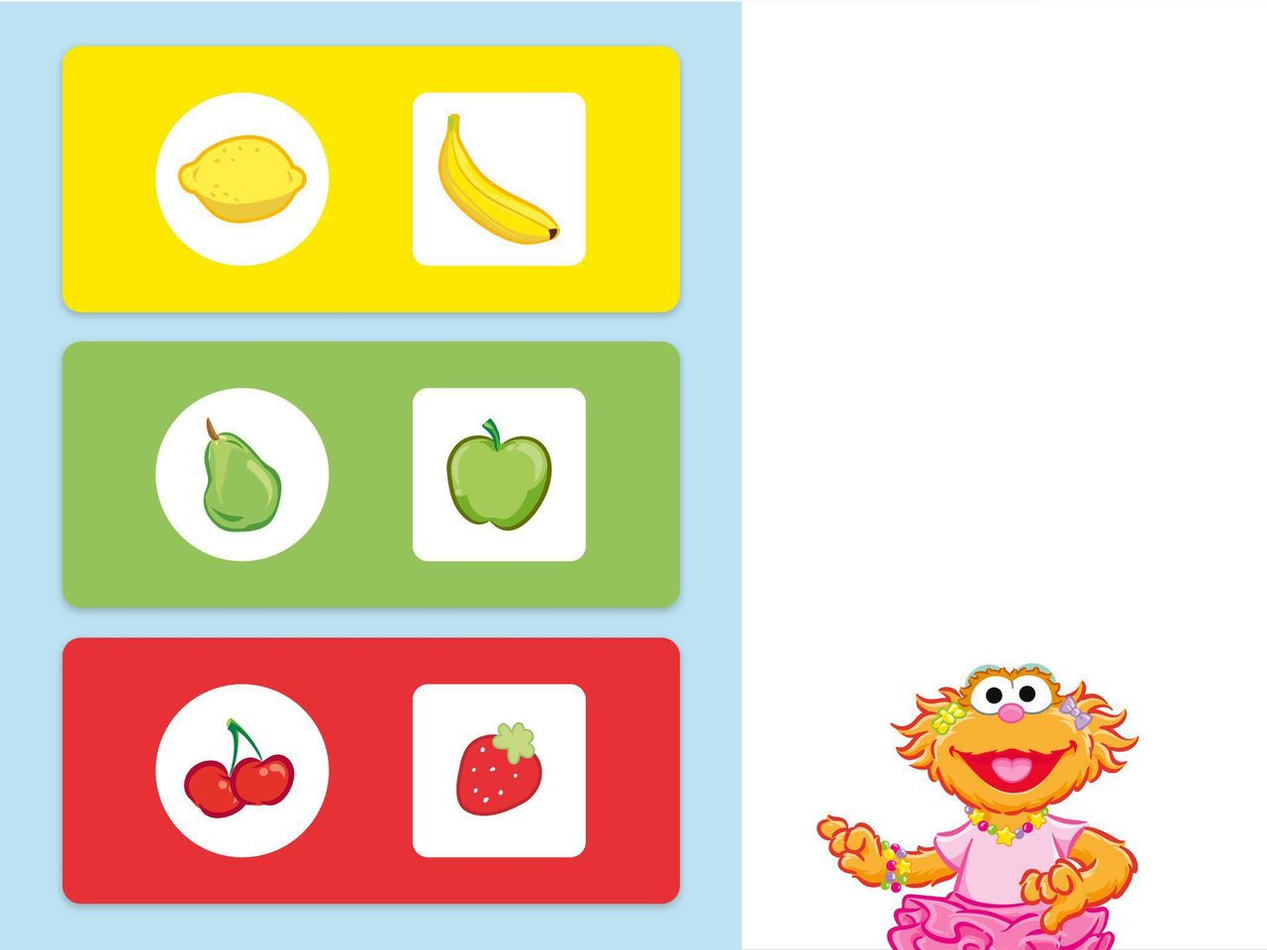
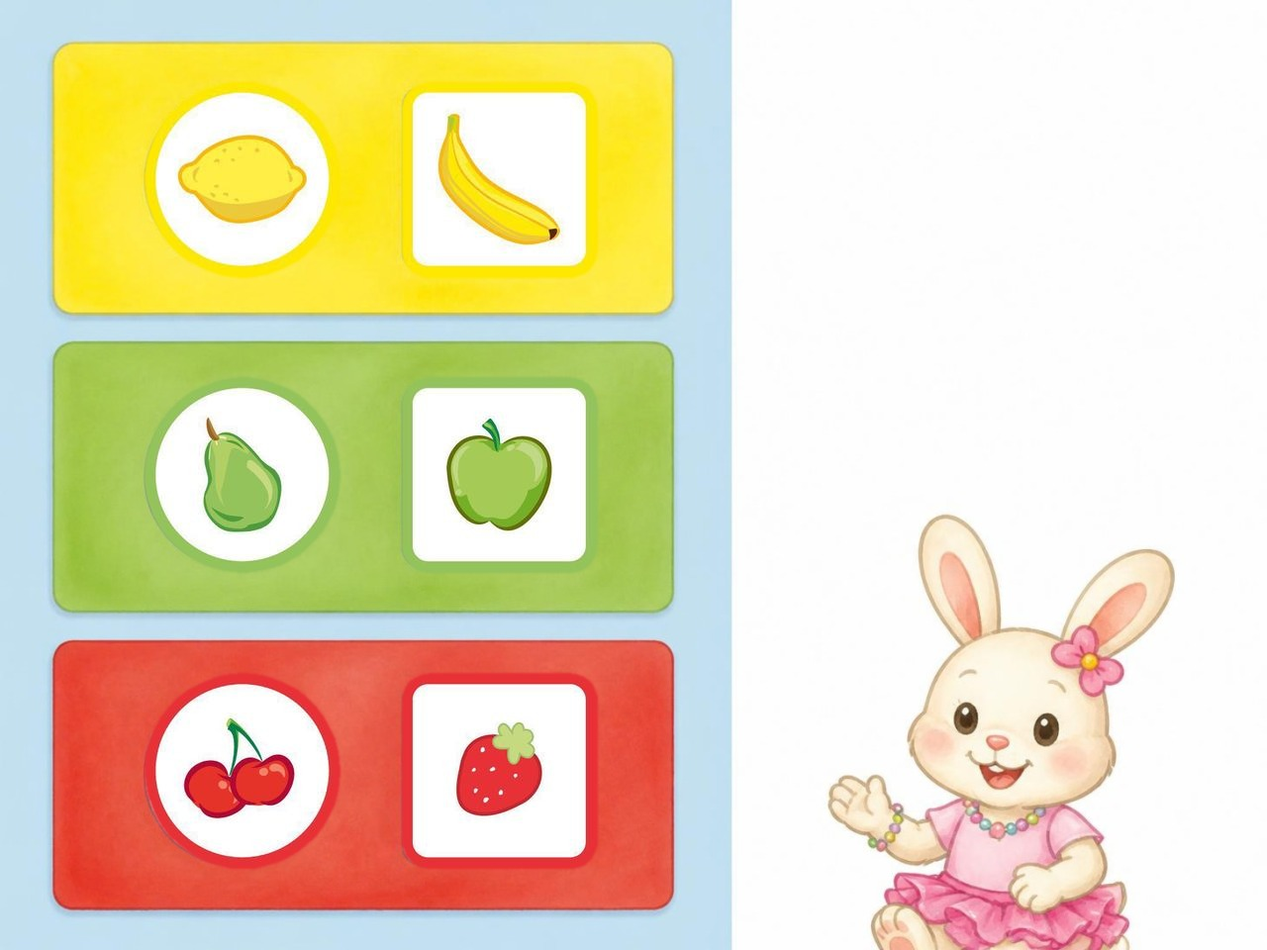
Sesame Street characters replaced in 'מיון מזון' (6 slides)

diff --git a/games/g4l53/index.html b/games/g4l53/index.html
@@ -153,7 +153,7 @@ body.framed #app .top .brand{display:none}
 </script>
 <script>
 /*CFGLINE*/
-const CFG = {"slides": [{"i": 0, "t": "R", "img": "img/s0.jpg?b=4", "acts": [{"intro": "aud/photo1__activity0__activity0.mp3", "advance": true, "idle": null, "shapes": []}], "layers": [{"t": "bg", "src": "lay/s0_0.jpg?b=4", "w": 2048, "h": 1536, "m": [1, 0, 0, 1, 0, 0], "show": 0, "tog": false}]}, {"i": 1, "t": "P", "img": "img/s1.jpg?b=4", "acts": [{"intro": "aud/photo2__activity0__activity0.mp3", "advance": false, "idle": null, "shapes": [{"d": "M 352.6 534.8 L 350.0 530.2 L 346.6 525.4 L 343.2 521.6 L 338.8 517.9 L 334.6 514.9 L 329.4 514.5 L 325.6 517.9 L 321.9 522.0 L 318.1 525.8 L 315.9 530.6 L 319.6 535.9 L 314.4 538.5 L 309.5 541.1 L 305.0 544.5 L 301.6 548.6 L 298.2 553.9 L 295.2 558.8 L 292.6 564.0 L 291.1 569.2 L 290.4 574.9 L 290.0 580.1 L 290.0 586.1 L 291.1 591.8 L 291.9 597.0 L 293.8 602.2 L 296.4 607.1 L 299.0 612.4 L 301.6 616.9 L 305.0 621.4 L 308.4 626.2 L 311.4 630.4 L 315.9 634.1 L 321.1 637.5 L 326.0 640.5 L 331.6 642.8 L 337.6 643.1 L 343.2 642.4 L 348.5 640.9 L 353.8 640.1 L 358.6 642.0 L 363.5 643.5 L 369.1 644.2 L 374.4 644.2 L 379.2 642.8 L 383.4 639.8 L 387.9 636.8 L 392.0 632.6 L 395.8 628.5 L 398.8 624.4 L 402.1 620.2 L 405.5 615.8 L 407.4 610.9 L 409.6 605.2 L 411.5 600.0 L 412.6 595.1 L 413.4 589.1 L 414.1 583.9 L 414.9 578.2 L 414.1 572.2 L 413.0 565.9 L 411.9 560.6 L 410.0 555.8 L 408.5 550.9 L 406.2 546.0 L 403.2 541.5 L 399.5 537.8 L 395.8 533.6 L 391.2 531.0 L 386.4 529.5 L 381.1 528.0 L 375.9 527.6 L 369.9 528.8 L 364.6 530.2 L 359.8 532.1 L 355.1 533.9 L 350.4 535.6 Z", "bb": [290, 514, 415, 644], "r1": "aud/photo2__activity0__shape1__record1_1.mp3", "r2": null, "ans": [], "link": null, "tx": 386.8, "ty": -460.7, "idle": null}, {"d": "M 905.0 530.6 L 899.4 529.9 L 894.1 530.2 L 889.2 532.5 L 884.8 535.1 L 880.2 537.8 L 876.1 541.5 L 873.1 546.0 L 870.9 550.5 L 867.9 555.0 L 866.4 559.9 L 865.2 565.1 L 864.1 571.5 L 864.1 577.1 L 864.5 582.4 L 865.2 587.6 L 866.0 592.9 L 867.5 598.1 L 869.4 603.8 L 872.0 608.2 L 874.2 613.5 L 877.2 618.4 L 880.2 622.9 L 883.2 627.4 L 886.6 631.1 L 890.4 634.5 L 894.9 637.5 L 900.5 639.8 L 905.8 641.2 L 910.6 640.1 L 915.9 639.0 L 921.5 640.5 L 926.4 644.2 L 932.0 645.4 L 937.2 645.4 L 942.5 645.4 L 947.4 643.5 L 951.9 641.2 L 956.8 638.2 L 960.9 635.2 L 965.0 631.5 L 969.1 628.1 L 972.1 624.0 L 975.1 619.5 L 978.5 615.4 L 980.8 610.9 L 983.8 606.8 L 986.0 602.2 L 987.5 597.4 L 989.4 591.8 L 990.9 586.1 L 991.6 580.1 L 991.2 574.5 L 990.5 568.5 L 989.8 563.2 L 987.9 558.0 L 985.2 553.1 L 981.9 548.2 L 978.5 544.1 L 974.4 539.6 L 970.6 536.2 L 966.1 533.2 L 960.9 531.0 L 955.2 530.6 L 949.2 530.6 L 944.0 531.4 L 939.5 533.6 L 934.6 536.2 L 933.9 530.6 L 932.8 525.8 L 930.5 520.5 L 928.2 515.6 L 923.8 512.6 L 918.9 511.5 L 914.0 513.0 L 909.1 514.9 L 904.2 517.5 L 900.5 521.2 L 901.6 526.5 L 904.8 530.4 L 908.0 534.2 Z", "bb": [864, 512, 992, 645], "r1": "aud/photo2__activity0__shape2__record1_2.mp3", "r2": null, "ans": [], "link": null, "tx": -641, "ty": -455.4, "idle": null}]}]}, {"i": 2, "t": "P", "img": "img/s2.jpg?b=4", "acts": [{"intro": "aud/photo3__activity0__activity0.mp3", "advance": false, "idle": null, "shapes": [{"d": "M 908.2 461.8 L 908.2 504.6 C 908.2 508.5 905.1 511.6 901.2 511.6 L 810.5 511.6 C 806.7 511.6 803.5 508.5 803.5 504.6 L 803.5 419.0 C 803.5 415.1 806.7 412.0 810.5 412.0 L 901.2 412.0 C 905.1 412.0 908.2 415.1 908.2 419.0 Z", "bb": [804, 412, 908, 512], "r1": "aud/photo3__activity0__shape1__record1_1.mp3", "r2": null, "ans": [], "link": null, "tx": -430.8, "ty": 211.1, "idle": null}, {"d": "M 384.6 460.5 C 384.6 489.5 360.1 513.0 329.9 513.0 C 299.7 513.0 275.3 489.5 275.3 460.5 C 275.3 431.4 299.7 407.9 329.9 407.9 C 360.1 407.9 384.6 431.4 384.6 460.5 Z", "bb": [275, 408, 385, 513], "r1": "aud/photo3__activity0__shape2__record1_2.mp3", "r2": null, "ans": [], "link": null, "tx": 271.5, "ty": 216.6, "idle": null}]}]}, {"i": 3, "t": "P", "img": "img/s3.jpg?b=4", "acts": [{"intro": "aud/photo4__activity0__activity0.mp3", "advance": false, "idle": null, "shapes": [{"d": "M 889.2 277.9 L 884.0 277.9 L 878.4 278.2 L 873.1 280.1 L 867.9 283.5 L 863.8 286.5 L 858.9 287.6 L 854.0 290.6 L 850.2 294.0 L 846.9 297.8 L 843.1 301.9 L 839.4 307.1 L 836.4 312.8 L 834.9 318.4 L 833.0 323.2 L 831.9 329.2 L 830.4 334.5 L 830.4 339.8 L 830.4 345.0 L 831.5 350.2 L 832.2 355.9 L 834.9 361.9 L 837.1 367.5 L 840.1 372.0 L 844.6 376.5 L 848.8 381.0 L 853.6 383.2 L 859.2 384.0 L 864.9 384.4 L 868.6 387.8 L 873.1 390.4 L 878.8 391.9 L 884.8 392.6 L 890.4 391.9 L 895.6 390.8 L 900.5 392.6 L 906.5 393.0 L 912.1 392.6 L 917.4 391.5 L 921.9 388.5 L 927.5 388.1 L 933.1 387.0 L 938.4 386.2 L 944.0 384.0 L 948.5 381.4 L 952.6 378.0 L 956.8 373.5 L 960.9 369.0 L 964.2 364.5 L 966.5 358.9 L 968.0 354.0 L 968.4 348.4 L 969.5 343.1 L 970.2 337.1 L 970.6 331.5 L 970.6 325.5 L 969.5 320.6 L 967.2 315.4 L 965.0 310.9 L 962.4 306.4 L 959.4 301.5 L 955.2 297.4 L 951.5 293.6 L 946.2 291.0 L 941.4 289.1 L 936.9 285.8 L 932.4 283.1 L 927.5 281.6 L 922.6 280.1 L 923.8 273.8 L 925.6 268.1 L 924.1 262.9 L 920.0 259.9 L 914.0 258.4 L 907.6 258.4 L 902.0 260.2 L 896.8 263.6 L 891.9 267.8 L 887.8 273.4 L 884.4 277.5 L 889.4 277.9 Z", "bb": [830, 258, 971, 393], "r1": "aud/photo4__activity0__shape1__record1_1.mp3", "r2": null, "ans": [], "link": null, "tx": -527.1, "ty": 338.1, "idle": null}, {"d": "M 483.5 189.0 L 483.1 183.8 L 484.6 177.8 L 487.2 173.2 L 491.0 169.1 L 494.0 164.6 L 494.8 159.4 L 492.5 153.8 L 488.0 150.4 L 482.4 147.4 L 476.4 147.0 L 471.1 147.0 L 465.1 148.1 L 460.2 149.6 L 455.8 152.6 L 452.0 156.0 L 447.5 160.5 L 444.5 165.4 L 441.1 169.9 L 438.5 174.4 L 435.5 178.5 L 431.8 182.2 L 426.5 181.1 L 421.2 181.9 L 416.0 182.2 L 410.4 183.4 L 405.5 185.2 L 401.0 188.6 L 396.5 192.4 L 392.8 196.1 L 387.1 196.9 L 381.5 197.2 L 376.6 198.4 L 372.1 200.6 L 367.2 204.0 L 363.1 208.1 L 359.0 211.9 L 355.6 216.0 L 351.5 220.5 L 347.8 225.4 L 344.8 229.9 L 342.5 234.4 L 339.5 239.6 L 336.9 244.9 L 334.6 249.4 L 332.4 254.2 L 331.2 259.1 L 330.1 265.5 L 329.0 270.4 L 328.6 276.8 L 328.6 282.8 L 328.6 288.0 L 328.6 293.6 L 329.4 298.9 L 330.1 304.5 L 330.9 309.8 L 332.4 315.8 L 334.2 320.6 L 336.5 325.9 L 338.8 330.8 L 341.0 335.6 L 343.6 340.1 L 346.6 345.0 L 350.4 350.2 L 353.8 354.8 L 359.0 358.1 L 364.2 360.4 L 369.5 363.4 L 374.4 365.2 L 379.6 367.1 L 384.5 368.6 L 389.0 371.2 L 393.5 374.6 L 397.6 377.6 L 402.1 381.4 L 406.2 384.4 L 411.1 385.9 L 416.4 386.2 L 421.6 386.6 L 426.9 387.0 L 433.2 386.6 L 438.9 385.1 L 444.9 385.9 L 451.2 388.1 L 456.1 389.6 L 461.4 390.4 L 467.4 390.8 L 473.0 390.4 L 478.2 388.5 L 482.8 385.9 L 487.2 382.5 L 492.1 380.6 L 497.4 380.6 L 503.0 380.6 L 508.2 379.5 L 513.5 377.6 L 518.8 376.5 L 524.0 375.8 L 530.8 374.6 L 536.4 373.1 L 541.2 371.2 L 545.8 368.2 L 549.9 364.9 L 553.6 361.1 L 557.0 355.9 L 560.0 351.0 L 563.0 346.9 L 565.6 341.6 L 568.2 336.4 L 570.5 331.5 L 572.8 327.0 L 574.6 321.8 L 576.5 316.5 L 578.4 310.1 L 579.9 304.9 L 580.6 299.6 L 581.8 293.6 L 582.5 287.6 L 583.2 282.0 L 583.2 275.6 L 583.2 270.0 L 581.8 265.1 L 580.6 259.9 L 579.1 253.9 L 578.0 248.6 L 576.5 243.8 L 573.9 238.9 L 570.1 234.4 L 566.8 229.1 L 562.6 225.0 L 558.9 221.6 L 554.8 217.9 L 550.2 215.2 L 545.8 213.0 L 541.6 209.6 L 537.5 206.6 L 533.0 204.4 L 528.1 203.2 L 522.9 203.2 L 518.0 202.1 L 513.5 198.8 L 509.0 196.5 L 504.5 193.9 L 498.9 191.6 L 494.0 190.5 L 488.8 190.1 L 483.9 189.1 L 479.0 188.0 Z", "bb": [329, 147, 583, 391], "r1": "aud/photo4__activity0__shape2__record1_2.mp3", "r2": null, "ans": [], "link": null, "tx": 155.9, "ty": 352, "idle": null}]}]}, {"i": 4, "t": "P", "img": "img/s4.jpg?b=4", "acts": [{"intro": "aud/photo5__activity0__activity0.mp3", "advance": false, "idle": null, "shapes": [{"d": "M 316.6 356.2 L 312.9 352.5 L 310.2 348.0 L 306.9 343.9 L 302.8 338.6 L 298.6 333.4 L 294.5 327.4 L 290.4 322.9 L 287.0 318.8 L 283.2 314.6 L 279.5 310.5 L 275.4 307.1 L 270.1 303.0 L 265.6 299.2 L 261.1 295.5 L 257.0 292.1 L 254.8 287.2 L 251.4 283.1 L 246.5 280.9 L 240.5 280.5 L 234.1 280.9 L 228.1 278.2 L 222.9 276.8 L 216.1 275.6 L 209.4 275.6 L 204.5 277.9 L 201.1 281.6 L 197.8 285.4 L 196.6 290.2 L 198.1 295.9 L 202.6 300.4 L 202.6 306.0 L 201.5 312.0 L 201.9 317.6 L 205.6 322.5 L 210.1 326.2 L 212.8 331.1 L 215.4 337.1 L 218.4 342.8 L 221.4 346.9 L 224.0 351.8 L 228.1 357.0 L 231.5 362.2 L 234.5 367.5 L 237.1 373.1 L 239.4 379.9 L 241.6 384.4 L 243.9 388.9 L 246.1 393.4 L 248.4 399.4 L 250.6 404.6 L 253.2 409.5 L 255.5 415.9 L 257.8 420.4 L 260.0 425.6 L 262.6 430.9 L 265.6 435.4 L 269.4 439.9 L 274.2 444.0 L 279.5 447.4 L 283.6 450.4 L 288.1 452.6 L 294.1 454.1 L 300.9 454.5 L 307.2 454.5 L 312.5 453.8 L 317.4 451.5 L 322.2 449.2 L 326.8 446.6 L 330.9 443.6 L 335.4 440.2 L 339.1 435.8 L 341.8 430.9 L 344.0 425.6 L 346.2 419.6 L 347.0 414.0 L 347.0 408.8 L 346.6 402.8 L 345.1 397.1 L 342.9 391.1 L 339.1 385.1 L 335.4 379.1 L 332.8 373.9 L 328.2 367.1 L 324.6 363.7 L 320.9 360.3 L 317.3 356.9 L 313.6 353.5 Z", "bb": [197, 276, 347, 454], "r1": "aud/photo5__activity0__shape1__record1_1.mp3", "r2": null, "ans": [], "link": null, "tx": 352.1, "ty": 287.8, "idle": null}, {"d": "M 471.8 185.6 C 471.8 226.1 432.8 259.0 384.7 259.0 C 336.6 259.0 297.5 226.1 297.5 185.6 C 297.5 145.0 336.6 112.2 384.7 112.2 C 432.8 112.2 471.8 145.0 471.8 185.6 Z", "bb": [298, 112, 472, 259], "r1": "aud/photo5__activity0__shape2__record1_2.mp3", "r2": null, "ans": [], "link": null, "tx": 59.5, "ty": 473.5, "idle": null}, {"d": "M 680.0 170.2 L 676.6 165.8 L 674.0 160.9 L 671.0 156.8 L 667.2 151.5 L 663.5 146.2 L 658.2 141.0 L 653.8 136.9 L 648.5 132.4 L 643.6 128.6 L 638.4 124.9 L 633.1 122.2 L 627.5 120.0 L 621.5 118.1 L 614.4 117.4 L 607.6 117.8 L 602.8 119.6 L 598.2 123.4 L 595.6 128.6 L 597.1 133.5 L 601.6 138.0 L 602.4 143.6 L 602.0 149.6 L 604.2 154.5 L 608.4 160.1 L 611.4 164.6 L 614.4 170.2 L 616.6 175.9 L 617.8 182.2 L 620.4 189.4 L 621.9 194.2 L 623.8 199.5 L 626.8 204.4 L 629.4 208.9 L 632.8 213.4 L 637.2 217.1 L 641.4 220.5 L 646.2 223.9 L 651.1 226.5 L 655.6 228.8 L 661.2 231.0 L 666.5 231.0 L 671.8 231.0 L 677.4 228.8 L 681.5 225.8 L 686.8 222.4 L 690.1 218.6 L 692.8 213.0 L 694.6 207.8 L 694.6 201.0 L 694.6 195.4 L 693.5 188.6 L 691.2 183.0 L 687.9 179.3 L 684.6 175.5 L 681.3 171.8 L 678.0 168.0 Z", "bb": [596, 117, 695, 231], "r1": "aud/photo5__activity0__shape3__record1_3.mp3", "r2": null, "ans": [], "link": null, "tx": -391.5, "ty": 483.5, "idle": null}, {"d": "M 811.4 344.4 C 811.4 369.6 787.5 389.9 758.0 389.9 C 728.5 389.9 704.6 369.6 704.6 344.4 C 704.6 319.3 728.5 298.9 758.0 298.9 C 787.5 298.9 811.4 319.3 811.4 344.4 Z", "bb": [705, 299, 811, 390], "r1": "aud/photo5__activity0__shape4__record1_4.mp3", "r2": null, "ans": [], "link": null, "tx": -647.9, "ty": 309.2, "idle": null}]}]}, {"i": 5, "t": "P", "img": "img/s5.jpg?b=4", "acts": [{"intro": "aud/photo6__activity0__activity0.mp3", "advance": false, "idle": null, "shapes": [{"d": "M 430.6 253.5 L 435.9 253.5 L 441.1 251.6 L 446.0 249.4 L 446.4 244.1 L 444.1 237.8 L 441.9 232.9 L 439.2 227.6 L 437.0 222.4 L 434.8 216.8 L 431.8 211.1 L 429.1 205.5 L 426.1 200.6 L 423.5 195.4 L 421.2 190.9 L 418.2 186.4 L 414.5 180.8 L 410.4 174.8 L 407.0 169.5 L 403.6 165.4 L 400.6 160.9 L 397.6 156.8 L 394.6 152.6 L 391.2 148.5 L 387.5 144.0 L 383.0 140.2 L 378.1 139.1 L 374.0 142.1 L 369.5 146.6 L 366.5 151.5 L 362.4 157.1 L 359.0 162.8 L 355.2 168.8 L 351.5 173.2 L 347.8 178.9 L 344.4 184.5 L 341.8 190.5 L 339.5 195.0 L 336.9 199.5 L 334.2 204.0 L 331.2 208.9 L 329.0 213.4 L 326.4 218.2 L 324.5 223.1 L 322.6 228.0 L 320.0 233.2 L 318.5 238.1 L 317.0 243.4 L 317.4 249.0 L 320.4 253.9 L 326.0 256.9 L 331.0 256.7 L 336.0 256.6 L 341.0 256.4 L 346.0 256.2 L 351.0 256.1 L 356.0 255.9 L 361.0 255.7 L 366.0 255.6 L 371.0 255.4 L 376.0 255.3 L 381.0 255.1 L 386.0 254.9 L 391.0 254.8 L 396.0 254.6 L 401.0 254.5 L 406.0 254.3 L 411.0 254.1 L 416.0 254.0 L 421.0 253.8 L 425.9 253.7 L 430.9 253.5 Z", "bb": [317, 139, 446, 257], "r1": null, "r2": null, "ans": [], "link": null, "tx": 51.1, "ty": 425.8, "idle": null}, {"d": "M 440.4 331.9 C 440.0 319.9 433.2 313.9 422.0 313.5 C 407.0 312.0 392.8 312.0 380.8 313.1 C 369.1 313.5 357.1 313.1 345.9 313.1 C 335.4 314.6 326.4 319.5 326.0 331.5 C 326.4 345.4 326.0 358.9 325.6 372.0 C 325.2 383.6 325.2 396.4 325.2 407.6 C 325.6 418.5 334.2 424.5 346.2 425.6 C 360.1 426.8 374.4 425.6 386.8 423.8 C 398.4 423.0 408.9 423.4 420.1 423.4 C 431.4 424.1 440.4 421.1 440.4 411.1 C 440.4 401.1 440.4 391.1 440.4 381.1 C 440.4 371.1 440.4 361.1 440.4 351.1 Z", "bb": [325, 312, 440, 427], "r1": null, "r2": null, "ans": [], "link": null, "tx": 397.1, "ty": 252, "idle": null}, {"d": "M 699.8 197.3 C 699.8 228.0 675.0 252.8 644.3 252.8 C 613.7 252.8 588.8 228.0 588.8 197.3 C 588.8 166.7 613.7 141.8 644.3 141.8 C 675.0 141.8 699.8 166.7 699.8 197.3 Z", "bb": [589, 142, 700, 253], "r1": null, "r2": null, "ans": [], "link": null, "tx": -41.1, "ty": 423.2, "idle": null}, {"d": "M 859.1 197.8 L 859.1 239.5 C 859.1 247.1 853.0 253.3 845.4 253.3 L 761.9 253.3 C 754.3 253.3 748.1 247.1 748.1 239.5 L 748.1 156.0 C 748.1 148.4 754.3 142.3 761.9 142.3 L 845.4 142.3 C 853.0 142.3 859.1 148.4 859.1 156.0 Z", "bb": [748, 142, 859, 253], "r1": null, "r2": null, "ans": [], "link": null, "tx": -550.4, "ty": 423.1, "idle": null}]}]}, {"i": 6, "t": "P", "img": "img/s6.jpg?b=4", "acts": [{"intro": "aud/photo7__activity0__activity0.mp3", "advance": false, "idle": null, "shapes": [{"d": "M 478.9 145.3 L 478.9 202.0 C 478.9 212.4 470.5 220.8 460.1 220.8 L 346.6 220.8 C 336.3 220.8 327.9 212.4 327.9 202.0 L 327.9 88.5 C 327.9 78.2 336.3 69.8 346.6 69.8 L 460.1 69.8 C 470.5 69.8 478.9 78.2 478.9 88.5 Z", "bb": [328, 70, 479, 221], "r1": "aud/photo7__activity0__shape5__record1_5.mp3", "r2": null, "ans": [], "link": null, "tx": 503.1, "ty": 307, "idle": null}, {"d": "M 479.2 623.0 L 479.2 679.8 C 479.2 690.1 470.8 698.5 460.5 698.5 L 347.0 698.5 C 336.6 698.5 328.2 690.1 328.2 679.8 L 328.2 566.3 C 328.2 555.9 336.6 547.5 347.0 547.5 L 460.5 547.5 C 470.8 547.5 479.2 555.9 479.2 566.3 Z", "bb": [328, 548, 479, 699], "r1": "aud/photo7__activity0__shape6__record1_6.mp3", "r2": null, "ans": [], "link": null, "tx": 319.2, "ty": -351.8, "idle": null}, {"d": "M 271.3 623.1 C 271.3 664.8 237.5 698.6 195.8 698.6 C 154.1 698.6 120.3 664.8 120.3 623.1 C 120.3 581.4 154.1 547.6 195.8 547.6 C 237.5 547.6 271.3 581.4 271.3 623.1 Z", "bb": [120, 548, 271, 699], "r1": "aud/photo7__activity0__shape7__record1_7.mp3", "r2": null, "ans": [], "link": null, "tx": 529, "ty": -177.6, "idle": null}, {"d": "M 271.3 383.8 C 271.3 425.5 237.5 459.3 195.8 459.3 C 154.1 459.3 120.3 425.5 120.3 383.8 C 120.3 342.1 154.1 308.3 195.8 308.3 C 237.5 308.3 271.3 342.1 271.3 383.8 Z", "bb": [120, 308, 271, 459], "r1": "aud/photo7__activity0__shape8__record1_8.mp3", "r2": null, "ans": [], "link": null, "tx": 708.9, "ty": -108.4, "idle": null}, {"d": "M 271.3 144.9 C 271.3 186.6 237.5 220.4 195.8 220.4 C 154.1 220.4 120.3 186.6 120.3 144.9 C 120.3 103.2 154.1 69.4 195.8 69.4 C 237.5 69.4 271.3 103.2 271.3 144.9 Z", "bb": [120, 69, 271, 220], "r1": "aud/photo7__activity0__shape9__record1_9.mp3", "r2": null, "ans": [], "link": null, "tx": 524.4, "ty": -44.0, "idle": null}, {"d": "M 478.9 383.8 L 478.9 440.5 C 478.9 450.9 470.5 459.3 460.1 459.3 L 346.6 459.3 C 336.3 459.3 327.9 450.9 327.9 440.5 L 327.9 327.0 C 327.9 316.7 336.3 308.3 346.6 308.3 L 460.1 308.3 C 470.5 308.3 478.9 316.7 478.9 327.0 Z", "bb": [328, 308, 479, 459], "r1": "aud/photo7__activity0__shape10__record1_10.mp3", "r2": null, "ans": [], "link": null, "tx": 496.4, "ty": -283.4, "idle": null}]}]}, {"i": 7, "t": "R", "img": "img/s7.jpg?b=4", "acts": [{"intro": "aud/photo8__activity0__activity0.mp3", "advance": true, "idle": null, "shapes": []}], "layers": [{"t": "bg", "src": "lay/s7_0.jpg?b=4", "w": 2048, "h": 1536, "m": [1, 0, 0, 1, 0, 0], "show": 0, "tog": false}]}], "title": "מיון מזון", "hash": "g4l53", "brand": "חן קלימיאן", "writeBase": "../../letters/"};
+const CFG = {"slides": [{"i": 0, "t": "R", "img": "img/s0.jpg?b=4", "acts": [{"intro": "aud/photo1__activity0__activity0.mp3", "advance": true, "idle": null, "shapes": []}], "layers": [{"t": "bg", "src": "lay/s0_0.jpg?b=4", "w": 2048, "h": 1536, "m": [1, 0, 0, 1, 0, 0], "show": 0, "tog": false}]}, {"i": 1, "t": "P", "img": "img/s1.jpg?b=5", "acts": [{"intro": "aud/photo2__activity0__activity0.mp3", "advance": false, "idle": null, "shapes": [{"d": "M 352.6 534.8 L 350.0 530.2 L 346.6 525.4 L 343.2 521.6 L 338.8 517.9 L 334.6 514.9 L 329.4 514.5 L 325.6 517.9 L 321.9 522.0 L 318.1 525.8 L 315.9 530.6 L 319.6 535.9 L 314.4 538.5 L 309.5 541.1 L 305.0 544.5 L 301.6 548.6 L 298.2 553.9 L 295.2 558.8 L 292.6 564.0 L 291.1 569.2 L 290.4 574.9 L 290.0 580.1 L 290.0 586.1 L 291.1 591.8 L 291.9 597.0 L 293.8 602.2 L 296.4 607.1 L 299.0 612.4 L 301.6 616.9 L 305.0 621.4 L 308.4 626.2 L 311.4 630.4 L 315.9 634.1 L 321.1 637.5 L 326.0 640.5 L 331.6 642.8 L 337.6 643.1 L 343.2 642.4 L 348.5 640.9 L 353.8 640.1 L 358.6 642.0 L 363.5 643.5 L 369.1 644.2 L 374.4 644.2 L 379.2 642.8 L 383.4 639.8 L 387.9 636.8 L 392.0 632.6 L 395.8 628.5 L 398.8 624.4 L 402.1 620.2 L 405.5 615.8 L 407.4 610.9 L 409.6 605.2 L 411.5 600.0 L 412.6 595.1 L 413.4 589.1 L 414.1 583.9 L 414.9 578.2 L 414.1 572.2 L 413.0 565.9 L 411.9 560.6 L 410.0 555.8 L 408.5 550.9 L 406.2 546.0 L 403.2 541.5 L 399.5 537.8 L 395.8 533.6 L 391.2 531.0 L 386.4 529.5 L 381.1 528.0 L 375.9 527.6 L 369.9 528.8 L 364.6 530.2 L 359.8 532.1 L 355.1 533.9 L 350.4 535.6 Z", "bb": [290, 514, 415, 644], "r1": "aud/photo2__activity0__shape1__record1_1.mp3", "r2": null, "ans": [], "link": null, "tx": 386.8, "ty": -460.7, "idle": null}, {"d": "M 905.0 530.6 L 899.4 529.9 L 894.1 530.2 L 889.2 532.5 L 884.8 535.1 L 880.2 537.8 L 876.1 541.5 L 873.1 546.0 L 870.9 550.5 L 867.9 555.0 L 866.4 559.9 L 865.2 565.1 L 864.1 571.5 L 864.1 577.1 L 864.5 582.4 L 865.2 587.6 L 866.0 592.9 L 867.5 598.1 L 869.4 603.8 L 872.0 608.2 L 874.2 613.5 L 877.2 618.4 L 880.2 622.9 L 883.2 627.4 L 886.6 631.1 L 890.4 634.5 L 894.9 637.5 L 900.5 639.8 L 905.8 641.2 L 910.6 640.1 L 915.9 639.0 L 921.5 640.5 L 926.4 644.2 L 932.0 645.4 L 937.2 645.4 L 942.5 645.4 L 947.4 643.5 L 951.9 641.2 L 956.8 638.2 L 960.9 635.2 L 965.0 631.5 L 969.1 628.1 L 972.1 624.0 L 975.1 619.5 L 978.5 615.4 L 980.8 610.9 L 983.8 606.8 L 986.0 602.2 L 987.5 597.4 L 989.4 591.8 L 990.9 586.1 L 991.6 580.1 L 991.2 574.5 L 990.5 568.5 L 989.8 563.2 L 987.9 558.0 L 985.2 553.1 L 981.9 548.2 L 978.5 544.1 L 974.4 539.6 L 970.6 536.2 L 966.1 533.2 L 960.9 531.0 L 955.2 530.6 L 949.2 530.6 L 944.0 531.4 L 939.5 533.6 L 934.6 536.2 L 933.9 530.6 L 932.8 525.8 L 930.5 520.5 L 928.2 515.6 L 923.8 512.6 L 918.9 511.5 L 914.0 513.0 L 909.1 514.9 L 904.2 517.5 L 900.5 521.2 L 901.6 526.5 L 904.8 530.4 L 908.0 534.2 Z", "bb": [864, 512, 992, 645], "r1": "aud/photo2__activity0__shape2__record1_2.mp3", "r2": null, "ans": [], "link": null, "tx": -641, "ty": -455.4, "idle": null}]}]}, {"i": 2, "t": "P", "img": "img/s2.jpg?b=5", "acts": [{"intro": "aud/photo3__activity0__activity0.mp3", "advance": false, "idle": null, "shapes": [{"d": "M 908.2 461.8 L 908.2 504.6 C 908.2 508.5 905.1 511.6 901.2 511.6 L 810.5 511.6 C 806.7 511.6 803.5 508.5 803.5 504.6 L 803.5 419.0 C 803.5 415.1 806.7 412.0 810.5 412.0 L 901.2 412.0 C 905.1 412.0 908.2 415.1 908.2 419.0 Z", "bb": [804, 412, 908, 512], "r1": "aud/photo3__activity0__shape1__record1_1.mp3", "r2": null, "ans": [], "link": null, "tx": -430.8, "ty": 211.1, "idle": null}, {"d": "M 384.6 460.5 C 384.6 489.5 360.1 513.0 329.9 513.0 C 299.7 513.0 275.3 489.5 275.3 460.5 C 275.3 431.4 299.7 407.9 329.9 407.9 C 360.1 407.9 384.6 431.4 384.6 460.5 Z", "bb": [275, 408, 385, 513], "r1": "aud/photo3__activity0__shape2__record1_2.mp3", "r2": null, "ans": [], "link": null, "tx": 271.5, "ty": 216.6, "idle": null}]}]}, {"i": 3, "t": "P", "img": "img/s3.jpg?b=5", "acts": [{"intro": "aud/photo4__activity0__activity0.mp3", "advance": false, "idle": null, "shapes": [{"d": "M 889.2 277.9 L 884.0 277.9 L 878.4 278.2 L 873.1 280.1 L 867.9 283.5 L 863.8 286.5 L 858.9 287.6 L 854.0 290.6 L 850.2 294.0 L 846.9 297.8 L 843.1 301.9 L 839.4 307.1 L 836.4 312.8 L 834.9 318.4 L 833.0 323.2 L 831.9 329.2 L 830.4 334.5 L 830.4 339.8 L 830.4 345.0 L 831.5 350.2 L 832.2 355.9 L 834.9 361.9 L 837.1 367.5 L 840.1 372.0 L 844.6 376.5 L 848.8 381.0 L 853.6 383.2 L 859.2 384.0 L 864.9 384.4 L 868.6 387.8 L 873.1 390.4 L 878.8 391.9 L 884.8 392.6 L 890.4 391.9 L 895.6 390.8 L 900.5 392.6 L 906.5 393.0 L 912.1 392.6 L 917.4 391.5 L 921.9 388.5 L 927.5 388.1 L 933.1 387.0 L 938.4 386.2 L 944.0 384.0 L 948.5 381.4 L 952.6 378.0 L 956.8 373.5 L 960.9 369.0 L 964.2 364.5 L 966.5 358.9 L 968.0 354.0 L 968.4 348.4 L 969.5 343.1 L 970.2 337.1 L 970.6 331.5 L 970.6 325.5 L 969.5 320.6 L 967.2 315.4 L 965.0 310.9 L 962.4 306.4 L 959.4 301.5 L 955.2 297.4 L 951.5 293.6 L 946.2 291.0 L 941.4 289.1 L 936.9 285.8 L 932.4 283.1 L 927.5 281.6 L 922.6 280.1 L 923.8 273.8 L 925.6 268.1 L 924.1 262.9 L 920.0 259.9 L 914.0 258.4 L 907.6 258.4 L 902.0 260.2 L 896.8 263.6 L 891.9 267.8 L 887.8 273.4 L 884.4 277.5 L 889.4 277.9 Z", "bb": [830, 258, 971, 393], "r1": "aud/photo4__activity0__shape1__record1_1.mp3", "r2": null, "ans": [], "link": null, "tx": -527.1, "ty": 338.1, "idle": null}, {"d": "M 483.5 189.0 L 483.1 183.8 L 484.6 177.8 L 487.2 173.2 L 491.0 169.1 L 494.0 164.6 L 494.8 159.4 L 492.5 153.8 L 488.0 150.4 L 482.4 147.4 L 476.4 147.0 L 471.1 147.0 L 465.1 148.1 L 460.2 149.6 L 455.8 152.6 L 452.0 156.0 L 447.5 160.5 L 444.5 165.4 L 441.1 169.9 L 438.5 174.4 L 435.5 178.5 L 431.8 182.2 L 426.5 181.1 L 421.2 181.9 L 416.0 182.2 L 410.4 183.4 L 405.5 185.2 L 401.0 188.6 L 396.5 192.4 L 392.8 196.1 L 387.1 196.9 L 381.5 197.2 L 376.6 198.4 L 372.1 200.6 L 367.2 204.0 L 363.1 208.1 L 359.0 211.9 L 355.6 216.0 L 351.5 220.5 L 347.8 225.4 L 344.8 229.9 L 342.5 234.4 L 339.5 239.6 L 336.9 244.9 L 334.6 249.4 L 332.4 254.2 L 331.2 259.1 L 330.1 265.5 L 329.0 270.4 L 328.6 276.8 L 328.6 282.8 L 328.6 288.0 L 328.6 293.6 L 329.4 298.9 L 330.1 304.5 L 330.9 309.8 L 332.4 315.8 L 334.2 320.6 L 336.5 325.9 L 338.8 330.8 L 341.0 335.6 L 343.6 340.1 L 346.6 345.0 L 350.4 350.2 L 353.8 354.8 L 359.0 358.1 L 364.2 360.4 L 369.5 363.4 L 374.4 365.2 L 379.6 367.1 L 384.5 368.6 L 389.0 371.2 L 393.5 374.6 L 397.6 377.6 L 402.1 381.4 L 406.2 384.4 L 411.1 385.9 L 416.4 386.2 L 421.6 386.6 L 426.9 387.0 L 433.2 386.6 L 438.9 385.1 L 444.9 385.9 L 451.2 388.1 L 456.1 389.6 L 461.4 390.4 L 467.4 390.8 L 473.0 390.4 L 478.2 388.5 L 482.8 385.9 L 487.2 382.5 L 492.1 380.6 L 497.4 380.6 L 503.0 380.6 L 508.2 379.5 L 513.5 377.6 L 518.8 376.5 L 524.0 375.8 L 530.8 374.6 L 536.4 373.1 L 541.2 371.2 L 545.8 368.2 L 549.9 364.9 L 553.6 361.1 L 557.0 355.9 L 560.0 351.0 L 563.0 346.9 L 565.6 341.6 L 568.2 336.4 L 570.5 331.5 L 572.8 327.0 L 574.6 321.8 L 576.5 316.5 L 578.4 310.1 L 579.9 304.9 L 580.6 299.6 L 581.8 293.6 L 582.5 287.6 L 583.2 282.0 L 583.2 275.6 L 583.2 270.0 L 581.8 265.1 L 580.6 259.9 L 579.1 253.9 L 578.0 248.6 L 576.5 243.8 L 573.9 238.9 L 570.1 234.4 L 566.8 229.1 L 562.6 225.0 L 558.9 221.6 L 554.8 217.9 L 550.2 215.2 L 545.8 213.0 L 541.6 209.6 L 537.5 206.6 L 533.0 204.4 L 528.1 203.2 L 522.9 203.2 L 518.0 202.1 L 513.5 198.8 L 509.0 196.5 L 504.5 193.9 L 498.9 191.6 L 494.0 190.5 L 488.8 190.1 L 483.9 189.1 L 479.0 188.0 Z", "bb": [329, 147, 583, 391], "r1": "aud/photo4__activity0__shape2__record1_2.mp3", "r2": null, "ans": [], "link": null, "tx": 155.9, "ty": 352, "idle": null}]}]}, {"i": 4, "t": "P", "img": "img/s4.jpg?b=5", "acts": [{"intro": "aud/photo5__activity0__activity0.mp3", "advance": false, "idle": null, "shapes": [{"d": "M 316.6 356.2 L 312.9 352.5 L 310.2 348.0 L 306.9 343.9 L 302.8 338.6 L 298.6 333.4 L 294.5 327.4 L 290.4 322.9 L 287.0 318.8 L 283.2 314.6 L 279.5 310.5 L 275.4 307.1 L 270.1 303.0 L 265.6 299.2 L 261.1 295.5 L 257.0 292.1 L 254.8 287.2 L 251.4 283.1 L 246.5 280.9 L 240.5 280.5 L 234.1 280.9 L 228.1 278.2 L 222.9 276.8 L 216.1 275.6 L 209.4 275.6 L 204.5 277.9 L 201.1 281.6 L 197.8 285.4 L 196.6 290.2 L 198.1 295.9 L 202.6 300.4 L 202.6 306.0 L 201.5 312.0 L 201.9 317.6 L 205.6 322.5 L 210.1 326.2 L 212.8 331.1 L 215.4 337.1 L 218.4 342.8 L 221.4 346.9 L 224.0 351.8 L 228.1 357.0 L 231.5 362.2 L 234.5 367.5 L 237.1 373.1 L 239.4 379.9 L 241.6 384.4 L 243.9 388.9 L 246.1 393.4 L 248.4 399.4 L 250.6 404.6 L 253.2 409.5 L 255.5 415.9 L 257.8 420.4 L 260.0 425.6 L 262.6 430.9 L 265.6 435.4 L 269.4 439.9 L 274.2 444.0 L 279.5 447.4 L 283.6 450.4 L 288.1 452.6 L 294.1 454.1 L 300.9 454.5 L 307.2 454.5 L 312.5 453.8 L 317.4 451.5 L 322.2 449.2 L 326.8 446.6 L 330.9 443.6 L 335.4 440.2 L 339.1 435.8 L 341.8 430.9 L 344.0 425.6 L 346.2 419.6 L 347.0 414.0 L 347.0 408.8 L 346.6 402.8 L 345.1 397.1 L 342.9 391.1 L 339.1 385.1 L 335.4 379.1 L 332.8 373.9 L 328.2 367.1 L 324.6 363.7 L 320.9 360.3 L 317.3 356.9 L 313.6 353.5 Z", "bb": [197, 276, 347, 454], "r1": "aud/photo5__activity0__shape1__record1_1.mp3", "r2": null, "ans": [], "link": null, "tx": 352.1, "ty": 287.8, "idle": null}, {"d": "M 471.8 185.6 C 471.8 226.1 432.8 259.0 384.7 259.0 C 336.6 259.0 297.5 226.1 297.5 185.6 C 297.5 145.0 336.6 112.2 384.7 112.2 C 432.8 112.2 471.8 145.0 471.8 185.6 Z", "bb": [298, 112, 472, 259], "r1": "aud/photo5__activity0__shape2__record1_2.mp3", "r2": null, "ans": [], "link": null, "tx": 59.5, "ty": 473.5, "idle": null}, {"d": "M 680.0 170.2 L 676.6 165.8 L 674.0 160.9 L 671.0 156.8 L 667.2 151.5 L 663.5 146.2 L 658.2 141.0 L 653.8 136.9 L 648.5 132.4 L 643.6 128.6 L 638.4 124.9 L 633.1 122.2 L 627.5 120.0 L 621.5 118.1 L 614.4 117.4 L 607.6 117.8 L 602.8 119.6 L 598.2 123.4 L 595.6 128.6 L 597.1 133.5 L 601.6 138.0 L 602.4 143.6 L 602.0 149.6 L 604.2 154.5 L 608.4 160.1 L 611.4 164.6 L 614.4 170.2 L 616.6 175.9 L 617.8 182.2 L 620.4 189.4 L 621.9 194.2 L 623.8 199.5 L 626.8 204.4 L 629.4 208.9 L 632.8 213.4 L 637.2 217.1 L 641.4 220.5 L 646.2 223.9 L 651.1 226.5 L 655.6 228.8 L 661.2 231.0 L 666.5 231.0 L 671.8 231.0 L 677.4 228.8 L 681.5 225.8 L 686.8 222.4 L 690.1 218.6 L 692.8 213.0 L 694.6 207.8 L 694.6 201.0 L 694.6 195.4 L 693.5 188.6 L 691.2 183.0 L 687.9 179.3 L 684.6 175.5 L 681.3 171.8 L 678.0 168.0 Z", "bb": [596, 117, 695, 231], "r1": "aud/photo5__activity0__shape3__record1_3.mp3", "r2": null, "ans": [], "link": null, "tx": -391.5, "ty": 483.5, "idle": null}, {"d": "M 811.4 344.4 C 811.4 369.6 787.5 389.9 758.0 389.9 C 728.5 389.9 704.6 369.6 704.6 344.4 C 704.6 319.3 728.5 298.9 758.0 298.9 C 787.5 298.9 811.4 319.3 811.4 344.4 Z", "bb": [705, 299, 811, 390], "r1": "aud/photo5__activity0__shape4__record1_4.mp3", "r2": null, "ans": [], "link": null, "tx": -647.9, "ty": 309.2, "idle": null}]}]}, {"i": 5, "t": "P", "img": "img/s5.jpg?b=5", "acts": [{"intro": "aud/photo6__activity0__activity0.mp3", "advance": false, "idle": null, "shapes": [{"d": "M 430.6 253.5 L 435.9 253.5 L 441.1 251.6 L 446.0 249.4 L 446.4 244.1 L 444.1 237.8 L 441.9 232.9 L 439.2 227.6 L 437.0 222.4 L 434.8 216.8 L 431.8 211.1 L 429.1 205.5 L 426.1 200.6 L 423.5 195.4 L 421.2 190.9 L 418.2 186.4 L 414.5 180.8 L 410.4 174.8 L 407.0 169.5 L 403.6 165.4 L 400.6 160.9 L 397.6 156.8 L 394.6 152.6 L 391.2 148.5 L 387.5 144.0 L 383.0 140.2 L 378.1 139.1 L 374.0 142.1 L 369.5 146.6 L 366.5 151.5 L 362.4 157.1 L 359.0 162.8 L 355.2 168.8 L 351.5 173.2 L 347.8 178.9 L 344.4 184.5 L 341.8 190.5 L 339.5 195.0 L 336.9 199.5 L 334.2 204.0 L 331.2 208.9 L 329.0 213.4 L 326.4 218.2 L 324.5 223.1 L 322.6 228.0 L 320.0 233.2 L 318.5 238.1 L 317.0 243.4 L 317.4 249.0 L 320.4 253.9 L 326.0 256.9 L 331.0 256.7 L 336.0 256.6 L 341.0 256.4 L 346.0 256.2 L 351.0 256.1 L 356.0 255.9 L 361.0 255.7 L 366.0 255.6 L 371.0 255.4 L 376.0 255.3 L 381.0 255.1 L 386.0 254.9 L 391.0 254.8 L 396.0 254.6 L 401.0 254.5 L 406.0 254.3 L 411.0 254.1 L 416.0 254.0 L 421.0 253.8 L 425.9 253.7 L 430.9 253.5 Z", "bb": [317, 139, 446, 257], "r1": null, "r2": null, "ans": [], "link": null, "tx": 51.1, "ty": 425.8, "idle": null}, {"d": "M 440.4 331.9 C 440.0 319.9 433.2 313.9 422.0 313.5 C 407.0 312.0 392.8 312.0 380.8 313.1 C 369.1 313.5 357.1 313.1 345.9 313.1 C 335.4 314.6 326.4 319.5 326.0 331.5 C 326.4 345.4 326.0 358.9 325.6 372.0 C 325.2 383.6 325.2 396.4 325.2 407.6 C 325.6 418.5 334.2 424.5 346.2 425.6 C 360.1 426.8 374.4 425.6 386.8 423.8 C 398.4 423.0 408.9 423.4 420.1 423.4 C 431.4 424.1 440.4 421.1 440.4 411.1 C 440.4 401.1 440.4 391.1 440.4 381.1 C 440.4 371.1 440.4 361.1 440.4 351.1 Z", "bb": [325, 312, 440, 427], "r1": null, "r2": null, "ans": [], "link": null, "tx": 397.1, "ty": 252, "idle": null}, {"d": "M 699.8 197.3 C 699.8 228.0 675.0 252.8 644.3 252.8 C 613.7 252.8 588.8 228.0 588.8 197.3 C 588.8 166.7 613.7 141.8 644.3 141.8 C 675.0 141.8 699.8 166.7 699.8 197.3 Z", "bb": [589, 142, 700, 253], "r1": null, "r2": null, "ans": [], "link": null, "tx": -41.1, "ty": 423.2, "idle": null}, {"d": "M 859.1 197.8 L 859.1 239.5 C 859.1 247.1 853.0 253.3 845.4 253.3 L 761.9 253.3 C 754.3 253.3 748.1 247.1 748.1 239.5 L 748.1 156.0 C 748.1 148.4 754.3 142.3 761.9 142.3 L 845.4 142.3 C 853.0 142.3 859.1 148.4 859.1 156.0 Z", "bb": [748, 142, 859, 253], "r1": null, "r2": null, "ans": [], "link": null, "tx": -550.4, "ty": 423.1, "idle": null}]}]}, {"i": 6, "t": "P", "img": "img/s6.jpg?b=5", "acts": [{"intro": "aud/photo7__activity0__activity0.mp3", "advance": false, "idle": null, "shapes": [{"d": "M 478.9 145.3 L 478.9 202.0 C 478.9 212.4 470.5 220.8 460.1 220.8 L 346.6 220.8 C 336.3 220.8 327.9 212.4 327.9 202.0 L 327.9 88.5 C 327.9 78.2 336.3 69.8 346.6 69.8 L 460.1 69.8 C 470.5 69.8 478.9 78.2 478.9 88.5 Z", "bb": [328, 70, 479, 221], "r1": "aud/photo7__activity0__shape5__record1_5.mp3", "r2": null, "ans": [], "link": null, "tx": 503.1, "ty": 307, "idle": null}, {"d": "M 479.2 623.0 L 479.2 679.8 C 479.2 690.1 470.8 698.5 460.5 698.5 L 347.0 698.5 C 336.6 698.5 328.2 690.1 328.2 679.8 L 328.2 566.3 C 328.2 555.9 336.6 547.5 347.0 547.5 L 460.5 547.5 C 470.8 547.5 479.2 555.9 479.2 566.3 Z", "bb": [328, 548, 479, 699], "r1": "aud/photo7__activity0__shape6__record1_6.mp3", "r2": null, "ans": [], "link": null, "tx": 319.2, "ty": -351.8, "idle": null}, {"d": "M 271.3 623.1 C 271.3 664.8 237.5 698.6 195.8 698.6 C 154.1 698.6 120.3 664.8 120.3 623.1 C 120.3 581.4 154.1 547.6 195.8 547.6 C 237.5 547.6 271.3 581.4 271.3 623.1 Z", "bb": [120, 548, 271, 699], "r1": "aud/photo7__activity0__shape7__record1_7.mp3", "r2": null, "ans": [], "link": null, "tx": 529, "ty": -177.6, "idle": null}, {"d": "M 271.3 383.8 C 271.3 425.5 237.5 459.3 195.8 459.3 C 154.1 459.3 120.3 425.5 120.3 383.8 C 120.3 342.1 154.1 308.3 195.8 308.3 C 237.5 308.3 271.3 342.1 271.3 383.8 Z", "bb": [120, 308, 271, 459], "r1": "aud/photo7__activity0__shape8__record1_8.mp3", "r2": null, "ans": [], "link": null, "tx": 708.9, "ty": -108.4, "idle": null}, {"d": "M 271.3 144.9 C 271.3 186.6 237.5 220.4 195.8 220.4 C 154.1 220.4 120.3 186.6 120.3 144.9 C 120.3 103.2 154.1 69.4 195.8 69.4 C 237.5 69.4 271.3 103.2 271.3 144.9 Z", "bb": [120, 69, 271, 220], "r1": "aud/photo7__activity0__shape9__record1_9.mp3", "r2": null, "ans": [], "link": null, "tx": 524.4, "ty": -44.0, "idle": null}, {"d": "M 478.9 383.8 L 478.9 440.5 C 478.9 450.9 470.5 459.3 460.1 459.3 L 346.6 459.3 C 336.3 459.3 327.9 450.9 327.9 440.5 L 327.9 327.0 C 327.9 316.7 336.3 308.3 346.6 308.3 L 460.1 308.3 C 470.5 308.3 478.9 316.7 478.9 327.0 Z", "bb": [328, 308, 479, 459], "r1": "aud/photo7__activity0__shape10__record1_10.mp3", "r2": null, "ans": [], "link": null, "tx": 496.4, "ty": -283.4, "idle": null}]}]}, {"i": 7, "t": "R", "img": "img/s7.jpg?b=4", "acts": [{"intro": "aud/photo8__activity0__activity0.mp3", "advance": true, "idle": null, "shapes": []}], "layers": [{"t": "bg", "src": "lay/s7_0.jpg?b=4", "w": 2048, "h": 1536, "m": [1, 0, 0, 1, 0, 0], "show": 0, "tog": false}]}], "title": "מיון מזון", "hash": "g4l53", "brand": "חן קלימיאן", "writeBase": "../../letters/"};
 const SL = CFG.slides, LAST = SL.length - 1;
 const NS = 'http://www.w3.org/2000/svg';
 const $ = id => document.getElementById(id);
